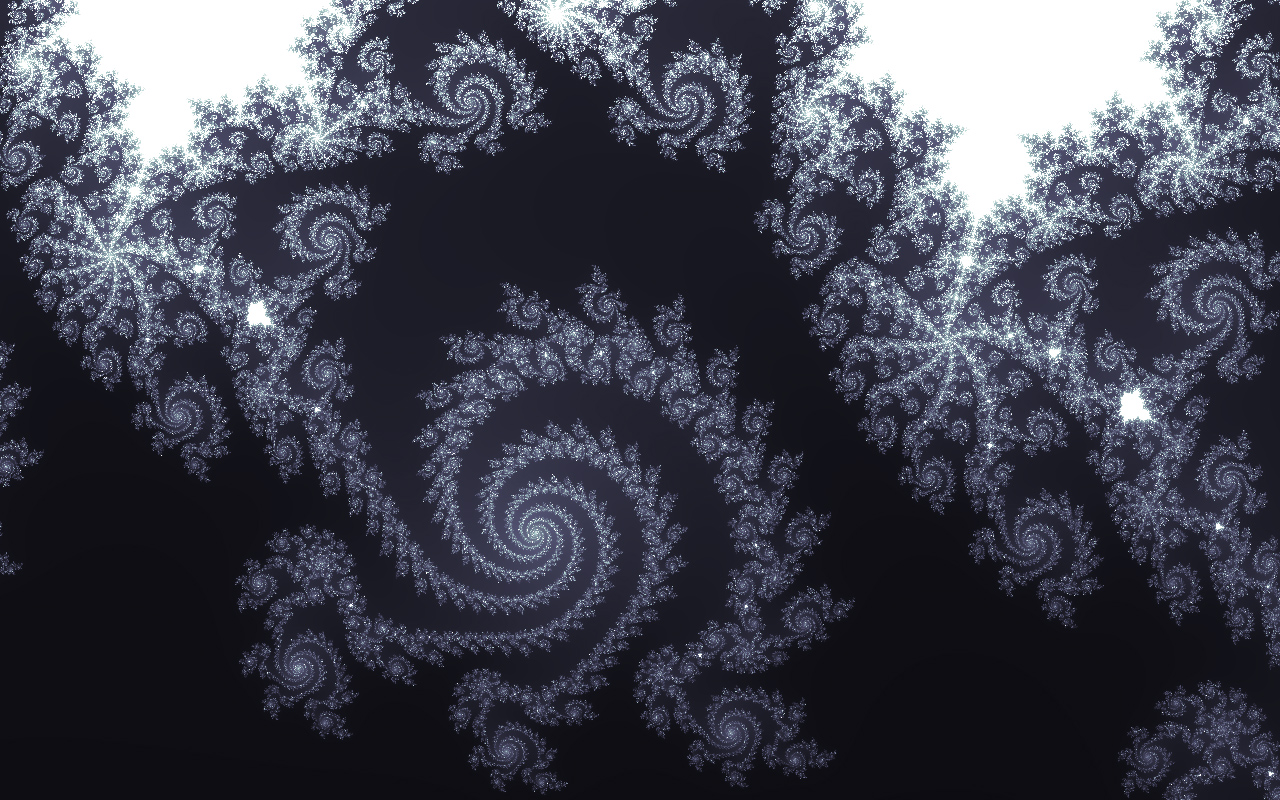
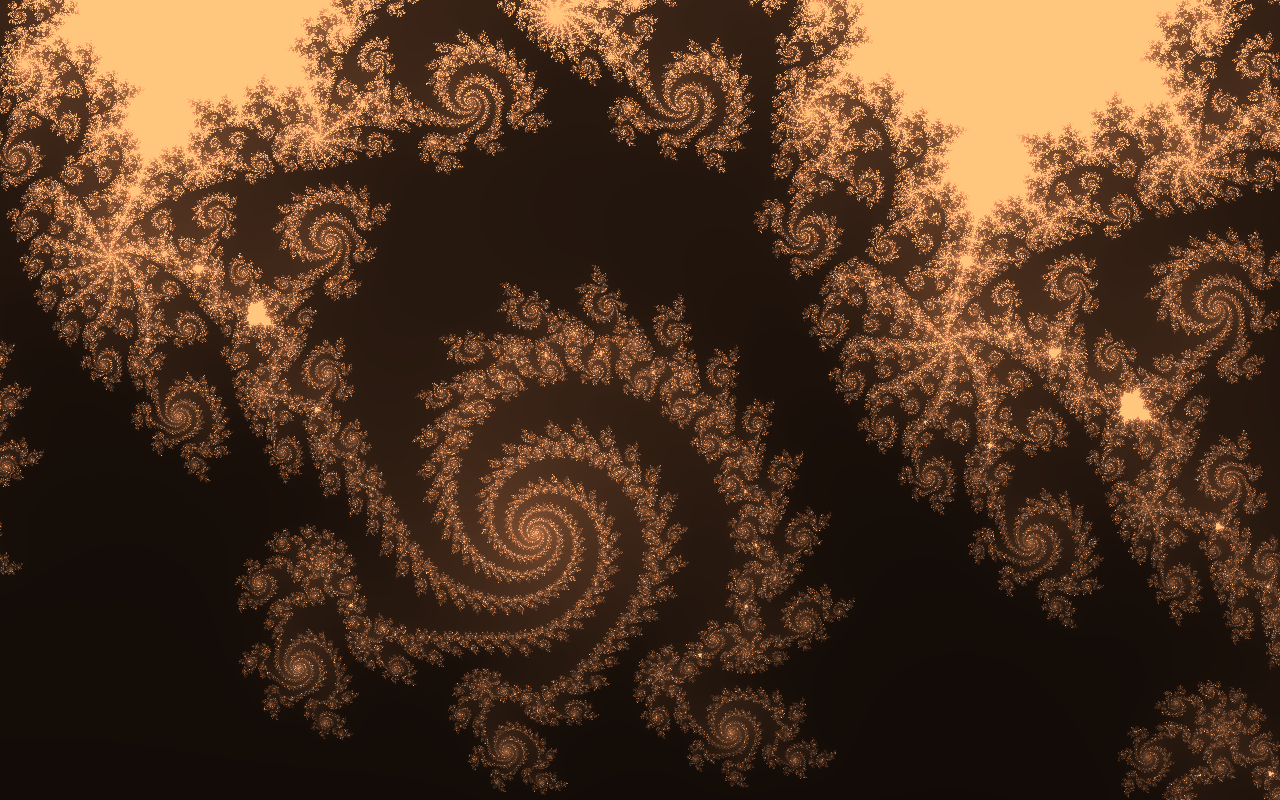
Improved opacity of mobile menu and updated portfolio cover picture.

diff --git a/assets/css/i.css b/assets/css/i.css
@@ -1,1 +1,1 @@
-@charset "UTF-8";html,body,div,span,applet,object,iframe,h1,h2,h3,h4,h5,h6,p,blockquote,pre,a,abbr,acronym,address,big,cite,code,del,dfn,em,img,ins,kbd,q,s,samp,small,strike,strong,sub,sup,tt,var,b,u,i,center,dl,dt,dd,ol,ul,li,fieldset,form,label,legend,table,caption,tbody,tfoot,thead,tr,th,td,article,aside,canvas,details,figcaption,figure,footer,header,hgroup,menu,nav,section,summary,time,mark,audio,video{border:0;font:inherit;margin:0;outline:0;padding:0;vertical-align:baseline}article,aside,details,figcaption,figure,footer,header,hgroup,menu,nav,section{display:block}body{line-height:1}ul{list-style:none}blockquote,q{quotes:none}blockquote:before,blockquote:after,q:before,q:after{content:'';content:none}:focus{outline:none}ins{text-decoration:none}del{text-decoration:line-through}table{border-collapse:collapse;border-spacing:0}a{text-decoration:none}*{box-sizing:border-box}body{width:100%}body:before,body:after{content:"";display:table}body:after{clear:both}body{zoom:1}body{font-family:"Calendas Plus","Crimson Text","Hoefler Text","Georgia",serif;color:#3b3b3b;-webkit-font-smoothing:antialiased;-moz-osx-font-smoothing:grayscale;text-size-adjust:100%;background:#fff;min-height:100%;height:100%;overflow-x:hidden}h1,h2,h3,h4,h5{font-family:"Calendas Plus","Crimson Text","Hoefler Text","Georgia",serif}p{margin-bottom:33px}sup{font-size:0.6em;vertical-align:super}a,a:visited,a:active{color:#7facc4;-moz-transition:all 0.25s ease-in-out;-o-transition:all 0.25s ease-in-out;-webkit-transition:all 0.25s ease-in-out;-ms-transition:all 0.25s ease-in-out;transition:all 0.25s ease-in-out}a:hover{color:#00a9ff;-moz-transition:all 0.25s ease-in-out;-o-transition:all 0.25s ease-in-out;-webkit-transition:all 0.25s ease-in-out;-ms-transition:all 0.25s ease-in-out;transition:all 0.25s ease-in-out}em{padding:1px 2px;border-radius:2px;background:#ffe8c0}abbr{border-bottom:1px dashed #999;cursor:help}strong{font-weight:bold}small{font-size:18px}.hilite{display:inline-block;padding:0 0.3em;-moz-border-radius:4px;-webkit-border-radius:4px;border-radius:4px;background:#fffbd7}blockquote{margin-left:-25px;border-left:3px solid #7facc4}blockquote p{margin-left:22px;font-style:italic;color:#3c3c3c}blockquote.pullquote{border:0}blockquote.pullquote,blockquote.pullquote p{margin:0;line-height:1.3em;text-align:center;margin-bottom:33px}code{color:#222;font-family:"Monaco", "Courier New", "Courier";font-size:.75em;font-weight:bold}.highlight{border:3px solid #dfdfdf;border-radius:3px;padding:12px;margin-bottom:33px;overflow-x:auto}.highlight code{font-family:"Monaco", "Courier New", "Courier";font-size:1em;font-weight:inherit}.highlight code .lineno{margin-right:16.5px;color:#d9d9d9;line-height:1.2em}hr{display:block;margin:0 auto;width:100%;height:4px;background:#d9d9d9;border:none;margin-bottom:33px;border-radius:2px}input{background:none;border:none;outline:none}.archive input{background:none;outline:none;width:100%;font-family:"Calendas Plus","Crimson Text","Hoefler Text","Georgia",serif}.archive input:focus{background:white;color:#3b3b3b}.icons{font-family:"Icons";font-size:14px;line-height:20px}.bb{border-bottom:2px solid #7facc4}.pad-top{padding-top:66px}#bump{min-height:100%;height:auto;margin:0 auto-320px}.wrap{max-width:960px;display:inline;float:left;width:97%;margin:0 1.5%;float:none;margin:0 auto}.wrap:before,.wrap:after{content:"";display:table}.wrap:after{clear:both}.wrap{zoom:1}.post{display:inline;float:left;width:77%;margin:0 1.5%;max-width:680px;display:block;margin:0 auto;float:none}header.site-header{padding:20px 0;position:absolute;width:100%;z-index:5000;background-color:rgba(0,0,0,0.7);background:-webkit-gradient(linear, left top, left bottom, from(rgba(0,0,0,0.7)), to(rgba(0,0,0,0)));background:-webkit-linear-gradient(top, rgba(0,0,0,0.7), rgba(0,0,0,0));background:-moz-linear-gradient(top, rgba(0,0,0,0.7), rgba(0,0,0,0));background:-ms-linear-gradient(top, rgba(0,0,0,0.7), rgba(0,0,0,0));background:-o-linear-gradient(top, rgba(0,0,0,0.7), rgba(0,0,0,0));background:linear-gradient(top, rgba(0,0,0,0.7), rgba(0,0,0,0));filter:progid:DXImageTransform.Microsoft.gradient(startColorStr=$startColor, EndColorStr=$endColor)}header.site-header.no-cover{background:none}header.site-header .wrap{max-width:90vw}#logo{position:fixed;left:10px;top:10px;display:none;opacity:0;z-index:2}#logo img{width:25px;height:25px}#bump .no-cover a{color:#3b3b3b;-moz-transition:all 0.2s ease-in-out;-o-transition:all 0.2s ease-in-out;-webkit-transition:all 0.2s ease-in-out;-ms-transition:all 0.2s ease-in-out;transition:all 0.2s ease-in-out}#bump .no-cover a:hover{color:#7facc4;-moz-transition:all 0.2s ease-in-out;-o-transition:all 0.2s ease-in-out;-webkit-transition:all 0.2s ease-in-out;-ms-transition:all 0.2s ease-in-out;transition:all 0.2s ease-in-out}#bump .no-cover .menu .icons{color:#3b3b3b}#bump .no-cover nav ul li a{color:#3b3b3b}#bump .no-cover nav ul li a:active{color:#7facc4}#bump .no-cover nav ul li a:hover{text-shadow:none;color:#7facc4}header.site-header a.menu{display:none}header.site-header hgroup h1,header.site-header nav ul{font-family:"Source Sans Pro","Open Sans","Helvetica Neue","Arial",sans-serif}header.site-header hgroup{float:left;padding-left:5vw}header.site-header hgroup h1{font-weight:700;font-size:18px;line-height:100%;color:#00a9ff;letter-spacing:2px;text-transform:uppercase}header.site-header hgroup a{color:#fff;-moz-transition:all 0.2s ease;-o-transition:all 0.2s ease;-webkit-transition:all 0.2s ease;-ms-transition:all 0.2s ease;transition:all 0.2s ease}header.site-header hgroup a:hover{text-shadow:0 0 3px rgba(255,255,255,0.6);-moz-transition:all 0.2s ease;-o-transition:all 0.2s ease;-webkit-transition:all 0.2s ease;-ms-transition:all 0.2s ease;transition:all 0.2s ease}header.site-header nav{float:right;display:block;padding-right:5vw}header.site-header nav:before,header.site-header nav:after{content:"";display:table}header.site-header nav:after{clear:both}header.site-header nav{zoom:1}header.site-header nav ul li{font-size:16px;text-transform:uppercase;display:inline;font-weight:bold;top:2px;position:relative;margin-left:20px}header.site-header nav ul li a{color:white;-moz-transition:all 0.2s ease;-o-transition:all 0.2s ease;-webkit-transition:all 0.2s ease;-ms-transition:all 0.2s ease;transition:all 0.2s ease}header.site-header nav ul li a:hover{text-shadow:0 0 10px rgba(255,255,255,0.6);-moz-transition:all 0.2s ease;-o-transition:all 0.2s ease;-webkit-transition:all 0.2s ease;-ms-transition:all 0.2s ease;transition:all 0.2s ease}.article{position:relative;margin-bottom:33px}.article.big .feature-wrapper{height:100vh;max-height:100%}.article.big .feature-wrapper .featured-image{background-color:#000;opacity:0.5}.article.big article{margin-top:100px}.article.big article header{margin:0;position:absolute;left:0;width:100%;top:45vh}.article.big article header *{text-shadow:0px 0px 5px #000}.article.big article header h1,.article.big article header .intro{font-style:normal}.article.big article header h1{font-family:Bitter;padding:0;margin:0;font-weight:700;color:#fff}.article.big article header .intro{font-family:'Open Sans Condensed';padding:0;margin:0;text-align:center;color:rgba(255,255,255,0.85)}.article .feature-wrapper{height:40vw;overflow:hidden;background:#000;min-height:250px;height:40vw;max-height:50vh;width:100%}.article .featured-image{vertical-align:middle;background-position:center center;background-size:cover;-webkit-background-size:cover;-moz-background-size:cover;-o-background-size:cover;opacity:0.9;width:100%;height:100%}.article header{margin:66px 0 33px 0}.article header hgroup{color:#3b3b3b;position:relative;text-align:center;width:auto;margin-top:0;margin:0 20px}.article header hgroup .date{font-family:"Source Sans Pro","Open Sans","Helvetica Neue","Arial",sans-serif;font-size:18px;font-weight:bold;color:#d9d9d9;text-transform:uppercase;margin-top:22px}.article header .intro{text-align:left}.archive{display:inline;float:left;width:97%;margin:0 1.5%;display:block;margin:0 auto;float:none;min-height:500px}.archive-wrap{display:inline;float:left;width:97%;margin:0 1.5%;max-width:800px;display:block;margin:0 auto;float:none;padding-top:140px}.archive-wrap .post-list{list-style-type:none;list-style:none;display:inline;float:left;width:67%;margin:0 1.5%;margin-left:21.5%;display:block;float:none}.archive-wrap .post-list lh h2{margin-bottom:49.5px}.archive-wrap .post-list li{display:block;float:none;font-size:32px;margin-bottom:66px;position:relative}.archive-wrap .post-list li a{position:relative}.archive-wrap .post-list li a:hover{-moz-transition:all 1s ease-in-out;-o-transition:all 1s ease-in-out;-webkit-transition:all 1s ease-in-out;-ms-transition:all 1s ease-in-out;transition:all 1s ease-in-out}.archive-wrap .post-list li a:hover:before{content:'...';color:#d9d9d9;font-family:"Source Sans Pro","Open Sans","Helvetica Neue","Arial",sans-serif;position:absolute;margin-left:-70px;font-size:40px;left:0;top:-20px;text-align:center;-moz-transition:all 1s ease-in-out;-o-transition:all 1s ease-in-out;-webkit-transition:all 1s ease-in-out;-ms-transition:all 1s ease-in-out;transition:all 1s ease-in-out}.archive-wrap .post-list li a:before{content:'“';color:#d9d9d9;position:absolute;margin-left:-70px;font-size:60px;z-index:10;top:-6px;left:0;text-align:center;-moz-transition:all 1s ease-in-out;-o-transition:all 1s ease-in-out;-webkit-transition:all 1s ease-in-out;-ms-transition:all 1s ease-in-out;transition:all 1s ease-in-out}.archive-wrap .post-list li h1{font-size:32px;font-style:italic}.archive-wrap .post-list .summary{font-size:18px;line-height:1.45em}.archive-wrap .post-list .date{margin-bottom:3px}.archive-wrap .post-list .date time{position:relative;top:-3px;font-size:18px;font-weight:bold;font-family:"Source Sans Pro","Open Sans","Helvetica Neue","Arial",sans-serif;font-style:normal;color:#d9d9d9;text-transform:uppercase;vertical-align:middle}.post .deets{position:relative;top:45px;z-index:5}.post .deets .date{font-size:18px;position:relative;top:10px;left:6px;color:#999;margin-bottom:16.5px}.post h1{font-style:italic}.post h1,.post h2,.post h3,.post h4,.post h5{padding-top:16.5px;margin-bottom:16.5px;line-height:1.25em}.post figure{margin:33px 0}.post figure img{margin-bottom:16.5px}.post figure figcaption{font-size:18px;font-family:"Source Sans Pro","Open Sans","Helvetica Neue","Arial",sans-serif;font-weight:bold;text-transform:uppercase;color:#bbb;text-align:center}.post img{width:100%;height:auto;display:block;margin:33px auto;-moz-border-radius:4px;-webkit-border-radius:4px;border-radius:4px}.post .device-mockup .device .screen img{margin:0;border-radius:0}.post ul{display:block;margin-bottom:33px;list-style:disc;list-style-type:disc}.post ul lh h1,.post ul lh h2,.post ul lh h3,.post ul lh h4,.post ul lh h5{border-bottom:2px solid #d9d9d9}.post ul li{list-style:disc;list-style-type:disc;margin-left:66px;padding-left:11px}.post ul li:last-child{margin-bottom:0}.post ol{display:block;margin-bottom:33px}.post ol lh h1,.post ol lh h2,.post ol lh h3,.post ol lh h4,.post ol lh h5{border-bottom:2px solid #d9d9d9}.post ol li{margin-left:66px;padding-left:11px;margin-bottom:11px;line-height:33px;font-size:22px}.post ol li:last-child{margin-bottom:0}.post .share{text-align:center;display:block;margin:0 auto;width:76px;font-size:18px;font-family:"Source Sans Pro","Open Sans","Helvetica Neue","Arial",sans-serif;text-transform:uppercase;font-weight:bold;letter-spacing:1px;padding:4px 6px 4px 6px;color:#d9d9d9;border:2px solid rgba(217,217,217,0.7);-moz-border-radius:4px;-webkit-border-radius:4px;border-radius:4px}.post .share:hover{color:#7facc4;border-color:rgba(127,172,196,0.7);-moz-transition:all 0.2s ease;-o-transition:all 0.2s ease;-webkit-transition:all 0.2s ease;-ms-transition:all 0.2s ease;transition:all 0.2s ease}.push{height:80px}footer{width:100%;background:#3b3b3b;height:320px;font-size:22px;color:#fff;position:relative}footer section{display:inline;float:left;width:97%;margin:0 1.5%;display:block;width:103%;margin:0 -1.5%;display:block;margin:0 auto}footer section:before,footer section:after{content:"";display:table}footer section:after{clear:both}footer section{zoom:1}footer small{font-size:12px;text-align:center;display:block;width:100%;position:absolute;bottom:8px;font-family:"Source Sans Pro","Open Sans","Helvetica Neue","Arial",sans-serif;text-transform:uppercase;color:rgba(255,255,255,0.1)}footer small a{color:rgba(255,255,255,0.3)}footer .list-title{margin-bottom:16.5px;border-bottom:2px solid #7facc4;font-style:italic;font-size:24px}footer .prev-posts{display:inline;float:left;width:57.0%;margin:0 1.5%;max-width:600px;min-height:250px;padding-left:5vw}footer .prev-posts p{padding-top:66px}footer .prev-posts li{display:block;width:102.5%;margin:0 -1.25%;margin-top:16.5px}footer .prev-posts li:before,footer .prev-posts li:after{content:"";display:table}footer .prev-posts li:after{clear:both}footer .prev-posts li{zoom:1}footer .prev-posts li .recent-title{display:inline;float:left;width:64.16667%;margin:0 1.25%;font-style:italic}footer .prev-posts li .recent-title a:hover{color:#fff}footer .prev-posts li span.date{float:none;color:rgba(217,217,217,0.6);display:inline;float:left;width:30.83333%;margin:0 1.25%;position:relative;font-size:18px;font-family:"Source Sans Pro","Open Sans","Helvetica Neue","Arial",sans-serif;text-transform:uppercase;text-align:right}footer .social{position:absolute;top:109px;display:inline;float:left;width:22.5%;margin:0 1.25%;right:5vw;font-style:italic}footer .social a{color:#999}footer .social a:hover{color:#fff}footer .social ul li{margin-bottom:16.5px}footer .social ul li:last-child{margin-bottom:0}footer .social ul li span.icon{float:left;margin-right:5px}.disqus{margin-top:99px}@media only screen and (max-width: 800px){.article.big article header h1{font-size:48px}.article.big article header p.intro{font-size:24px}footer{font-size:18px}footer .prev-posts li span.date{font-size:12px}footer .social{right:10vw}}@media only screen and (max-width: 640px){.push{height:0}.article.big .feature-wrapper{height:65vh}.article.big article{margin-top:50px}.article.big article header{top:25vh}.article.big article header h1{font-size:24px}.article.big article header .date{font-size:12px;margin:3px 0}.article.big article header p.intro{font-size:18px;color:rgba(255,255,255,0.85)}}@media only screen and (max-width: 480px){.article.big article header{top:30vh}.article.big article header .date{margin:15px 0}.article.big article header p.intro{font-size:18px;color:rgba(255,255,255,0.85)}footer .social{display:none}footer aside{width:90%;margin:0 auto}footer .prev-posts{display:inline;float:left;width:87%;margin:0 1.5%;padding-left:0;float:none;margin:0 auto;display:block}footer .prev-posts li{margin-top:16.5px}}@media only screen and (max-width: 680px){header.site-header nav{background-color:rgba(0,0,0,0);background:-webkit-gradient(linear, left top, left bottom, from(rgba(0,0,0,0)), to(rgba(0,0,0,0.8)));background:-webkit-linear-gradient(top, rgba(0,0,0,0), rgba(0,0,0,0.8));background:-moz-linear-gradient(top, rgba(0,0,0,0), rgba(0,0,0,0.8));background:-ms-linear-gradient(top, rgba(0,0,0,0), rgba(0,0,0,0.8));background:-o-linear-gradient(top, rgba(0,0,0,0), rgba(0,0,0,0.8));background:linear-gradient(top, rgba(0,0,0,0), rgba(0,0,0,0.8));filter:progid:DXImageTransform.Microsoft.gradient(startColorStr=$startColor, EndColorStr=$endColor)}#bump .no-cover nav ul{padding:0;margin-top:40px;background:#3b3b3b}#bump .no-cover nav ul li a{color:#fff}#bump .no-cover nav ul li a:active{background-color:#7facc4}#bump .no-cover nav ul li a:hover{text-shadow:none;color:#fff;background-color:#7facc4}header.site-header{min-height:59px;padding-top:20px}header.site-header hgroup h1{margin-bottom:0;font-size:22px}header.site-header hgroup{position:absolute;left:7%;float:none;padding-left:0}header.site-header a.menu{position:absolute;right:7%;display:block;float:right;width:16px;height:16px;color:white}header.site-header a.menu .icons{font-size:32px}header.site-header a.menu img{width:24px;height:auto}header.site-header nav{display:none;float:none;width:100%;padding-right:0}header.site-header nav:before{display:table;clear:both;content:''}header.site-header nav ul{padding:20px 0 10px 0;margin-top:15px}header.site-header nav ul li{display:block;margin-left:0;top:0px;font-size:18px}header.site-header nav ul li a{display:block;text-align:right;font-weight:bold;padding:15px 0px;padding-right:7%;position:relative;width:100%;color:#fff}header.site-header nav ul li a:active{background-color:#7facc4;color:white}header.site-header nav ul li a:hover{text-shadow:none}}@media only screen and (max-width: 480px){.post{display:inline;float:left;width:87%;margin:0 1.5%;max-width:420px;display:block;margin:0 auto;float:none}blockquote{margin-left:-15px}blockquote p{margin-left:13px}.highlight code{font-size:0.8em}footer{font-size:18px}small{font-size:12px}}p{font-size:22px;line-height:33px}.intro{font-size:32px;line-height:1.4em}.post ul li{font-size:22px;line-height:33px;margin-bottom:11px}h1,.h1{font-size:64px}h2,.h2{font-size:48px}h3,.h3{font-size:32px}h4,.h4{font-size:24px}h5,.h5{font-size:18px}h6,.h6{font-size:12px}.meta{font-size:12px}blockquote.pullquote,blockquote.pullquote p{font-size:48px}.archive input{font-size:48px}@media only screen and (max-width: 480px){p{font-size:18px;line-height:24px}.intro{font-size:24px;line-height:1.4em}.post ol li,.post ul li{font-size:18px;line-height:24px;margin-bottom:12px;margin-left:33px}h1,.h1{font-size:48px}h2,.h2{font-size:32px}h3,.h3{font-size:24px}h4,.h4{font-size:18px}h5,.h5{font-size:12px}h6,.h6{font-size:12px}.meta{font-size:12px}blockquote.pullquote,blockquote.pullquote p{font-size:24px}.archive input{font-size:32px}}.highlight{background:#202020;color:#d0d0d0}.highlight code{color:inherit}.highlight .hll{background-color:#404040}.highlight .c{color:#999999;font-style:italic}.highlight .err{color:#a61717;background-color:#e3d2d2}.highlight .g{color:#d0d0d0}.highlight .k{color:#6ab825;font-weight:bold}.highlight .l{color:#d0d0d0}.highlight .n{color:#d0d0d0}.highlight .o{color:#d0d0d0}.highlight .x{color:#d0d0d0}.highlight .p{color:#d0d0d0}.highlight .cm{color:#999999;font-style:italic}.highlight .cp{color:#cd2828;font-weight:bold}.highlight .c1{color:#999999;font-style:italic}.highlight .cs{color:#e50808;font-weight:bold;background-color:#520000}.highlight .gd{color:#d22323}.highlight .ge{color:#d0d0d0;font-style:italic}.highlight .gr{color:#d22323}.highlight .gh{color:#ffffff;font-weight:bold}.highlight .gi{color:#589819}.highlight .go{color:#ccc}.highlight .gp{color:#aaa}.highlight .gs{color:#d0d0d0;font-weight:bold}.highlight .gu{color:#ffffff;text-decoration:underline}.highlight .gt{color:#d22323}.highlight .kc{color:#6ab825;font-weight:bold}.highlight .kd{color:#6ab825;font-weight:bold}.highlight .kn{color:#6ab825;font-weight:bold}.highlight .kp{color:#6ab825}.highlight .kr{color:#6ab825;font-weight:bold}.highlight .kt{color:#6ab825;font-weight:bold}.highlight .ld{color:#d0d0d0}.highlight .m{color:#3677a9}.highlight .s{color:#ed9d13}.highlight .na{color:#bbb}.highlight .nb{color:#24909d}.highlight .nc{color:#447fcf;text-decoration:underline}.highlight .no{color:#40ffff}.highlight .nd{color:orange}.highlight .ni{color:#d0d0d0}.highlight .ne{color:#bbb}.highlight .nf{color:#447fcf}.highlight .nl{color:#d0d0d0}.highlight .nn{color:#447fcf;text-decoration:underline}.highlight .nx{color:#d0d0d0}.highlight .py{color:#d0d0d0}.highlight .nt{color:#6ab825;font-weight:bold}.highlight .nv{color:#40ffff}.highlight .ow{color:#6ab825;font-weight:bold}.highlight .w{color:#666}.highlight .mf{color:#3677a9}.highlight .mh{color:#3677a9}.highlight .mi{color:#3677a9}.highlight .mo{color:#3677a9}.highlight .sb{color:#ed9d13}.highlight .sc{color:#ed9d13}.highlight .sd{color:#ed9d13}.highlight .s2{color:#ed9d13}.highlight .se{color:#ed9d13}.highlight .sh{color:#ed9d13}.highlight .si{color:#ed9d13}.highlight .sx{color:orange}.highlight .sr{color:#ed9d13}.highlight .s1{color:#ed9d13}.highlight .ss{color:#ed9d13}.highlight .bp{color:#24909d}.highlight .vc{color:#40ffff}.highlight .vg{color:#40ffff}.highlight .vi{color:#40ffff}.highlight .il{color:#3677a9}.highlight .hll{background-color:#49483e}.highlight{background:#272822;color:#f8f8f2}.highlight .c{color:#75715e}.highlight .err{color:#960050;background-color:#1e0010}.highlight .k{color:#66d9ef}.highlight .l{color:#ae81ff}.highlight .n{color:#f8f8f2}.highlight .o{color:#f92672}.highlight .p{color:#f8f8f2}.highlight .cm{color:#75715e}.highlight .cp{color:#75715e}.highlight .c1{color:#75715e}.highlight .cs{color:#75715e}.highlight .ge{font-style:italic}.highlight .gs{font-weight:bold}.highlight .kc{color:#66d9ef}.highlight .kd{color:#66d9ef}.highlight .kn{color:#f92672}.highlight .kp{color:#66d9ef}.highlight .kr{color:#66d9ef}.highlight .kt{color:#66d9ef}.highlight .ld{color:#e6db74}.highlight .m{color:#ae81ff}.highlight .s{color:#e6db74}.highlight .na{color:#a6e22e}.highlight .nb{color:#f8f8f2}.highlight .nc{color:#a6e22e}.highlight .no{color:#66d9ef}.highlight .nd{color:#a6e22e}.highlight .ni{color:#f8f8f2}.highlight .ne{color:#a6e22e}.highlight .nf{color:#a6e22e}.highlight .nl{color:#f8f8f2}.highlight .nn{color:#f8f8f2}.highlight .nx{color:#a6e22e}.highlight .py{color:#f8f8f2}.highlight .nt{color:#f92672}.highlight .nv{color:#f8f8f2}.highlight .ow{color:#f92672}.highlight .w{color:#f8f8f2}.highlight .mf{color:#ae81ff}.highlight .mh{color:#ae81ff}.highlight .mi{color:#ae81ff}.highlight .mo{color:#ae81ff}.highlight .sb{color:#e6db74}.highlight .sc{color:#e6db74}.highlight .sd{color:#e6db74}.highlight .s2{color:#e6db74}.highlight .se{color:#ae81ff}.highlight .sh{color:#e6db74}.highlight .si{color:#e6db74}.highlight .sx{color:#e6db74}.highlight .sr{color:#e6db74}.highlight .s1{color:#e6db74}.highlight .ss{color:#e6db74}.highlight .bp{color:#f8f8f2}.highlight .vc{color:#f8f8f2}.highlight .vg{color:#f8f8f2}.highlight .vi{color:#f8f8f2}.highlight .il{color:#ae81ff}
+@charset "UTF-8";html,body,div,span,applet,object,iframe,h1,h2,h3,h4,h5,h6,p,blockquote,pre,a,abbr,acronym,address,big,cite,code,del,dfn,em,img,ins,kbd,q,s,samp,small,strike,strong,sub,sup,tt,var,b,u,i,center,dl,dt,dd,ol,ul,li,fieldset,form,label,legend,table,caption,tbody,tfoot,thead,tr,th,td,article,aside,canvas,details,figcaption,figure,footer,header,hgroup,menu,nav,section,summary,time,mark,audio,video{border:0;font:inherit;margin:0;outline:0;padding:0;vertical-align:baseline}article,aside,details,figcaption,figure,footer,header,hgroup,menu,nav,section{display:block}body{line-height:1}ul{list-style:none}blockquote,q{quotes:none}blockquote:before,blockquote:after,q:before,q:after{content:'';content:none}:focus{outline:none}ins{text-decoration:none}del{text-decoration:line-through}table{border-collapse:collapse;border-spacing:0}a{text-decoration:none}*{box-sizing:border-box}body{width:100%}body:before,body:after{content:"";display:table}body:after{clear:both}body{zoom:1}body{font-family:"Calendas Plus","Crimson Text","Hoefler Text","Georgia",serif;color:#3b3b3b;-webkit-font-smoothing:antialiased;-moz-osx-font-smoothing:grayscale;text-size-adjust:100%;background:#fff;min-height:100%;height:100%;overflow-x:hidden}h1,h2,h3,h4,h5{font-family:"Calendas Plus","Crimson Text","Hoefler Text","Georgia",serif}p{margin-bottom:33px}sup{font-size:0.6em;vertical-align:super}a,a:visited,a:active{color:#7facc4;-moz-transition:all 0.25s ease-in-out;-o-transition:all 0.25s ease-in-out;-webkit-transition:all 0.25s ease-in-out;-ms-transition:all 0.25s ease-in-out;transition:all 0.25s ease-in-out}a:hover{color:#00a9ff;-moz-transition:all 0.25s ease-in-out;-o-transition:all 0.25s ease-in-out;-webkit-transition:all 0.25s ease-in-out;-ms-transition:all 0.25s ease-in-out;transition:all 0.25s ease-in-out}em{padding:1px 2px;border-radius:2px;background:#ffe8c0}abbr{border-bottom:1px dashed #999;cursor:help}strong{font-weight:bold}small{font-size:18px}.hilite{display:inline-block;padding:0 0.3em;-moz-border-radius:4px;-webkit-border-radius:4px;border-radius:4px;background:#fffbd7}blockquote{margin-left:-25px;border-left:3px solid #7facc4}blockquote p{margin-left:22px;font-style:italic;color:#3c3c3c}blockquote.pullquote{border:0}blockquote.pullquote,blockquote.pullquote p{margin:0;line-height:1.3em;text-align:center;margin-bottom:33px}code{color:#222;font-family:"Monaco", "Courier New", "Courier";font-size:.75em;font-weight:bold}.highlight{border:3px solid #dfdfdf;border-radius:3px;padding:12px;margin-bottom:33px;overflow-x:auto}.highlight code{font-family:"Monaco", "Courier New", "Courier";font-size:1em;font-weight:inherit}.highlight code .lineno{margin-right:16.5px;color:#d9d9d9;line-height:1.2em}hr{display:block;margin:0 auto;width:100%;height:4px;background:#d9d9d9;border:none;margin-bottom:33px;border-radius:2px}input{background:none;border:none;outline:none}.archive input{background:none;outline:none;width:100%;font-family:"Calendas Plus","Crimson Text","Hoefler Text","Georgia",serif}.archive input:focus{background:white;color:#3b3b3b}.icons{font-family:"Icons";font-size:14px;line-height:20px}.bb{border-bottom:2px solid #7facc4}.pad-top{padding-top:66px}#bump{min-height:100%;height:auto;margin:0 auto-320px}.wrap{max-width:960px;display:inline;float:left;width:97%;margin:0 1.5%;float:none;margin:0 auto}.wrap:before,.wrap:after{content:"";display:table}.wrap:after{clear:both}.wrap{zoom:1}.post{display:inline;float:left;width:77%;margin:0 1.5%;max-width:680px;display:block;margin:0 auto;float:none}header.site-header{padding:20px 0;position:absolute;width:100%;z-index:5000;background-color:rgba(0,0,0,0.5);background:-webkit-gradient(linear, left top, left bottom, from(rgba(0,0,0,0.5)), to(rgba(0,0,0,0)));background:-webkit-linear-gradient(top, rgba(0,0,0,0.5), rgba(0,0,0,0));background:-moz-linear-gradient(top, rgba(0,0,0,0.5), rgba(0,0,0,0));background:-ms-linear-gradient(top, rgba(0,0,0,0.5), rgba(0,0,0,0));background:-o-linear-gradient(top, rgba(0,0,0,0.5), rgba(0,0,0,0));background:linear-gradient(top, rgba(0,0,0,0.5), rgba(0,0,0,0));filter:progid:DXImageTransform.Microsoft.gradient(startColorStr=$startColor, EndColorStr=$endColor)}header.site-header.no-cover{background:none}header.site-header .wrap{max-width:90vw}#logo{position:fixed;left:10px;top:10px;display:none;opacity:0;z-index:2}#logo img{width:25px;height:25px}#bump .no-cover a{color:#3b3b3b;-moz-transition:all 0.2s ease-in-out;-o-transition:all 0.2s ease-in-out;-webkit-transition:all 0.2s ease-in-out;-ms-transition:all 0.2s ease-in-out;transition:all 0.2s ease-in-out}#bump .no-cover a:hover{color:#7facc4;-moz-transition:all 0.2s ease-in-out;-o-transition:all 0.2s ease-in-out;-webkit-transition:all 0.2s ease-in-out;-ms-transition:all 0.2s ease-in-out;transition:all 0.2s ease-in-out}#bump .no-cover .menu .icons{color:#3b3b3b}#bump .no-cover nav ul li a{color:#3b3b3b}#bump .no-cover nav ul li a:active{color:#7facc4}#bump .no-cover nav ul li a:hover{text-shadow:none;color:#7facc4}header.site-header a.menu{display:none}header.site-header hgroup h1,header.site-header nav ul{font-family:"Source Sans Pro","Open Sans","Helvetica Neue","Arial",sans-serif}header.site-header hgroup{float:left;padding-left:5vw}header.site-header hgroup h1{font-weight:700;font-size:18px;line-height:100%;color:#00a9ff;letter-spacing:2px;text-transform:uppercase}header.site-header hgroup a{color:#fff;-moz-transition:all 0.2s ease;-o-transition:all 0.2s ease;-webkit-transition:all 0.2s ease;-ms-transition:all 0.2s ease;transition:all 0.2s ease}header.site-header hgroup a:hover{text-shadow:0 0 3px rgba(255,255,255,0.6);-moz-transition:all 0.2s ease;-o-transition:all 0.2s ease;-webkit-transition:all 0.2s ease;-ms-transition:all 0.2s ease;transition:all 0.2s ease}header.site-header nav{float:right;display:block;padding-right:5vw}header.site-header nav:before,header.site-header nav:after{content:"";display:table}header.site-header nav:after{clear:both}header.site-header nav{zoom:1}header.site-header nav ul li{font-size:16px;text-transform:uppercase;display:inline;font-weight:bold;top:2px;position:relative;margin-left:20px}header.site-header nav ul li a{color:white;-moz-transition:all 0.2s ease;-o-transition:all 0.2s ease;-webkit-transition:all 0.2s ease;-ms-transition:all 0.2s ease;transition:all 0.2s ease}header.site-header nav ul li a:hover{text-shadow:0 0 10px rgba(255,255,255,0.6);-moz-transition:all 0.2s ease;-o-transition:all 0.2s ease;-webkit-transition:all 0.2s ease;-ms-transition:all 0.2s ease;transition:all 0.2s ease}.article{position:relative;margin-bottom:33px}.article.big .feature-wrapper{height:100vh;max-height:100%}.article.big .feature-wrapper .featured-image{background-color:#000;opacity:0.5}.article.big article{margin-top:100px}.article.big article header{margin:0;position:absolute;left:0;width:100%;top:45vh}.article.big article header *{text-shadow:0px 0px 5px #000}.article.big article header h1,.article.big article header .intro{font-style:normal}.article.big article header h1{font-family:Bitter;padding:0;margin:0;font-weight:700;color:#fff}.article.big article header .intro{font-family:'Open Sans Condensed';padding:0;margin:0;text-align:center;color:rgba(255,255,255,0.85)}.article .feature-wrapper{height:40vw;overflow:hidden;background:#000;min-height:250px;height:40vw;max-height:50vh;width:100%}.article .featured-image{vertical-align:middle;background-position:center center;background-size:cover;-webkit-background-size:cover;-moz-background-size:cover;-o-background-size:cover;opacity:0.9;width:100%;height:100%}.article header{margin:66px 0 33px 0}.article header hgroup{color:#3b3b3b;position:relative;text-align:center;width:auto;margin-top:0;margin:0 20px}.article header hgroup .date{font-family:"Source Sans Pro","Open Sans","Helvetica Neue","Arial",sans-serif;font-size:18px;font-weight:bold;color:#d9d9d9;text-transform:uppercase;margin-top:22px}.article header .intro{text-align:left}.archive{display:inline;float:left;width:97%;margin:0 1.5%;display:block;margin:0 auto;float:none;min-height:500px}.archive-wrap{display:inline;float:left;width:97%;margin:0 1.5%;max-width:800px;display:block;margin:0 auto;float:none;padding-top:140px}.archive-wrap .post-list{list-style-type:none;list-style:none;display:inline;float:left;width:67%;margin:0 1.5%;margin-left:21.5%;display:block;float:none}.archive-wrap .post-list lh h2{margin-bottom:49.5px}.archive-wrap .post-list li{display:block;float:none;font-size:32px;margin-bottom:66px;position:relative}.archive-wrap .post-list li a{position:relative}.archive-wrap .post-list li a:hover{-moz-transition:all 1s ease-in-out;-o-transition:all 1s ease-in-out;-webkit-transition:all 1s ease-in-out;-ms-transition:all 1s ease-in-out;transition:all 1s ease-in-out}.archive-wrap .post-list li a:hover:before{content:'...';color:#d9d9d9;font-family:"Source Sans Pro","Open Sans","Helvetica Neue","Arial",sans-serif;position:absolute;margin-left:-70px;font-size:40px;left:0;top:-20px;text-align:center;-moz-transition:all 1s ease-in-out;-o-transition:all 1s ease-in-out;-webkit-transition:all 1s ease-in-out;-ms-transition:all 1s ease-in-out;transition:all 1s ease-in-out}.archive-wrap .post-list li a:before{content:'“';color:#d9d9d9;position:absolute;margin-left:-70px;font-size:60px;z-index:10;top:-6px;left:0;text-align:center;-moz-transition:all 1s ease-in-out;-o-transition:all 1s ease-in-out;-webkit-transition:all 1s ease-in-out;-ms-transition:all 1s ease-in-out;transition:all 1s ease-in-out}.archive-wrap .post-list li h1{font-size:32px;font-style:italic}.archive-wrap .post-list .summary{font-size:18px;line-height:1.45em}.archive-wrap .post-list .date{margin-bottom:3px}.archive-wrap .post-list .date time{position:relative;top:-3px;font-size:18px;font-weight:bold;font-family:"Source Sans Pro","Open Sans","Helvetica Neue","Arial",sans-serif;font-style:normal;color:#d9d9d9;text-transform:uppercase;vertical-align:middle}.post .deets{position:relative;top:45px;z-index:5}.post .deets .date{font-size:18px;position:relative;top:10px;left:6px;color:#999;margin-bottom:16.5px}.post h1{font-style:italic}.post h1,.post h2,.post h3,.post h4,.post h5{padding-top:16.5px;margin-bottom:16.5px;line-height:1.25em}.post figure{margin:33px 0}.post figure img{margin-bottom:16.5px}.post figure figcaption{font-size:18px;font-family:"Source Sans Pro","Open Sans","Helvetica Neue","Arial",sans-serif;font-weight:bold;text-transform:uppercase;color:#bbb;text-align:center}.post img{width:100%;height:auto;display:block;margin:33px auto;-moz-border-radius:4px;-webkit-border-radius:4px;border-radius:4px}.post .device-mockup .device .screen img{margin:0;border-radius:0}.post ul{display:block;margin-bottom:33px;list-style:disc;list-style-type:disc}.post ul lh h1,.post ul lh h2,.post ul lh h3,.post ul lh h4,.post ul lh h5{border-bottom:2px solid #d9d9d9}.post ul li{list-style:disc;list-style-type:disc;margin-left:66px;padding-left:11px}.post ul li:last-child{margin-bottom:0}.post ol{display:block;margin-bottom:33px}.post ol lh h1,.post ol lh h2,.post ol lh h3,.post ol lh h4,.post ol lh h5{border-bottom:2px solid #d9d9d9}.post ol li{margin-left:66px;padding-left:11px;margin-bottom:11px;line-height:33px;font-size:22px}.post ol li:last-child{margin-bottom:0}.post .share{text-align:center;display:block;margin:0 auto;width:76px;font-size:18px;font-family:"Source Sans Pro","Open Sans","Helvetica Neue","Arial",sans-serif;text-transform:uppercase;font-weight:bold;letter-spacing:1px;padding:4px 6px 4px 6px;color:#d9d9d9;border:2px solid rgba(217,217,217,0.7);-moz-border-radius:4px;-webkit-border-radius:4px;border-radius:4px}.post .share:hover{color:#7facc4;border-color:rgba(127,172,196,0.7);-moz-transition:all 0.2s ease;-o-transition:all 0.2s ease;-webkit-transition:all 0.2s ease;-ms-transition:all 0.2s ease;transition:all 0.2s ease}.push{height:80px}footer{width:100%;background:#3b3b3b;height:320px;font-size:22px;color:#fff;position:relative}footer section{display:inline;float:left;width:97%;margin:0 1.5%;display:block;width:103%;margin:0 -1.5%;display:block;margin:0 auto}footer section:before,footer section:after{content:"";display:table}footer section:after{clear:both}footer section{zoom:1}footer small{font-size:12px;text-align:center;display:block;width:100%;position:absolute;bottom:8px;font-family:"Source Sans Pro","Open Sans","Helvetica Neue","Arial",sans-serif;text-transform:uppercase;color:rgba(255,255,255,0.1)}footer small a{color:rgba(255,255,255,0.3)}footer .list-title{margin-bottom:16.5px;border-bottom:2px solid #7facc4;font-style:italic;font-size:24px}footer .prev-posts{display:inline;float:left;width:57.0%;margin:0 1.5%;max-width:600px;min-height:250px;padding-left:5vw}footer .prev-posts p{padding-top:66px}footer .prev-posts li{display:block;width:102.5%;margin:0 -1.25%;margin-top:16.5px}footer .prev-posts li:before,footer .prev-posts li:after{content:"";display:table}footer .prev-posts li:after{clear:both}footer .prev-posts li{zoom:1}footer .prev-posts li .recent-title{display:inline;float:left;width:64.16667%;margin:0 1.25%;font-style:italic}footer .prev-posts li .recent-title a:hover{color:#fff}footer .prev-posts li span.date{float:none;color:rgba(217,217,217,0.6);display:inline;float:left;width:30.83333%;margin:0 1.25%;position:relative;font-size:18px;font-family:"Source Sans Pro","Open Sans","Helvetica Neue","Arial",sans-serif;text-transform:uppercase;text-align:right}footer .social{position:absolute;top:109px;display:inline;float:left;width:22.5%;margin:0 1.25%;right:5vw;font-style:italic}footer .social a{color:#999}footer .social a:hover{color:#fff}footer .social ul li{margin-bottom:16.5px}footer .social ul li:last-child{margin-bottom:0}footer .social ul li span.icon{float:left;margin-right:5px}.disqus{margin-top:99px}@media only screen and (max-width: 800px){.article.big article header h1{font-size:48px}.article.big article header p.intro{font-size:24px}footer{font-size:18px}footer .prev-posts li span.date{font-size:12px}footer .social{right:10vw}}@media only screen and (max-width: 640px){.push{height:0}.article.big .feature-wrapper{height:65vh}.article.big article{margin-top:50px}.article.big article header{top:25vh}.article.big article header h1{font-size:24px}.article.big article header .date{font-size:12px;margin:3px 0}.article.big article header p.intro{font-size:18px;color:rgba(255,255,255,0.85)}}@media only screen and (max-width: 480px){.article.big article header{top:30vh}.article.big article header .date{margin:15px 0}.article.big article header p.intro{font-size:18px;color:rgba(255,255,255,0.85)}footer .social{display:none}footer aside{width:90%;margin:0 auto}footer .prev-posts{display:inline;float:left;width:87%;margin:0 1.5%;padding-left:0;float:none;margin:0 auto;display:block}footer .prev-posts li{margin-top:16.5px}}@media only screen and (max-width: 680px){header.site-header nav{background-color:rgba(0,0,0,0);background:-webkit-gradient(linear, left top, left bottom, from(rgba(0,0,0,0)), to(rgba(0,0,0,0.5)));background:-webkit-linear-gradient(top, rgba(0,0,0,0), rgba(0,0,0,0.5));background:-moz-linear-gradient(top, rgba(0,0,0,0), rgba(0,0,0,0.5));background:-ms-linear-gradient(top, rgba(0,0,0,0), rgba(0,0,0,0.5));background:-o-linear-gradient(top, rgba(0,0,0,0), rgba(0,0,0,0.5));background:linear-gradient(top, rgba(0,0,0,0), rgba(0,0,0,0.5));filter:progid:DXImageTransform.Microsoft.gradient(startColorStr=$startColor, EndColorStr=$endColor)}#bump .no-cover nav ul{padding:0;margin-top:40px;background:#3b3b3b}#bump .no-cover nav ul li a{color:#fff}#bump .no-cover nav ul li a:active{background-color:#7facc4}#bump .no-cover nav ul li a:hover{text-shadow:none;color:#fff;background-color:#7facc4}header.site-header{min-height:59px;padding-top:20px}header.site-header hgroup h1{margin-bottom:0;font-size:22px}header.site-header hgroup{position:absolute;left:7%;float:none;padding-left:0}header.site-header a.menu{position:absolute;right:7%;display:block;float:right;width:16px;height:16px;color:white}header.site-header a.menu .icons{font-size:32px}header.site-header a.menu img{width:24px;height:auto}header.site-header nav{display:none;float:none;width:100%;padding-right:0}header.site-header nav:before{display:table;clear:both;content:''}header.site-header nav ul{padding:20px 0 10px 0;margin-top:15px}header.site-header nav ul li{display:block;margin-left:0;top:0px;font-size:18px}header.site-header nav ul li a{display:block;text-align:right;font-weight:bold;padding:15px 0px;padding-right:7%;position:relative;width:100%;color:#fff}header.site-header nav ul li a:active{background-color:#7facc4;color:white}header.site-header nav ul li a:hover{text-shadow:none}}@media only screen and (max-width: 480px){.post{display:inline;float:left;width:87%;margin:0 1.5%;max-width:420px;display:block;margin:0 auto;float:none}blockquote{margin-left:-15px}blockquote p{margin-left:13px}.highlight code{font-size:0.8em}footer{font-size:18px}small{font-size:12px}}p{font-size:22px;line-height:33px}.intro{font-size:32px;line-height:1.4em}.post ul li{font-size:22px;line-height:33px;margin-bottom:11px}h1,.h1{font-size:64px}h2,.h2{font-size:48px}h3,.h3{font-size:32px}h4,.h4{font-size:24px}h5,.h5{font-size:18px}h6,.h6{font-size:12px}.meta{font-size:12px}blockquote.pullquote,blockquote.pullquote p{font-size:48px}.archive input{font-size:48px}@media only screen and (max-width: 480px){p{font-size:18px;line-height:24px}.intro{font-size:24px;line-height:1.4em}.post ol li,.post ul li{font-size:18px;line-height:24px;margin-bottom:12px;margin-left:33px}h1,.h1{font-size:48px}h2,.h2{font-size:32px}h3,.h3{font-size:24px}h4,.h4{font-size:18px}h5,.h5{font-size:12px}h6,.h6{font-size:12px}.meta{font-size:12px}blockquote.pullquote,blockquote.pullquote p{font-size:24px}.archive input{font-size:32px}}.highlight{background:#202020;color:#d0d0d0}.highlight code{color:inherit}.highlight .hll{background-color:#404040}.highlight .c{color:#999999;font-style:italic}.highlight .err{color:#a61717;background-color:#e3d2d2}.highlight .g{color:#d0d0d0}.highlight .k{color:#6ab825;font-weight:bold}.highlight .l{color:#d0d0d0}.highlight .n{color:#d0d0d0}.highlight .o{color:#d0d0d0}.highlight .x{color:#d0d0d0}.highlight .p{color:#d0d0d0}.highlight .cm{color:#999999;font-style:italic}.highlight .cp{color:#cd2828;font-weight:bold}.highlight .c1{color:#999999;font-style:italic}.highlight .cs{color:#e50808;font-weight:bold;background-color:#520000}.highlight .gd{color:#d22323}.highlight .ge{color:#d0d0d0;font-style:italic}.highlight .gr{color:#d22323}.highlight .gh{color:#ffffff;font-weight:bold}.highlight .gi{color:#589819}.highlight .go{color:#ccc}.highlight .gp{color:#aaa}.highlight .gs{color:#d0d0d0;font-weight:bold}.highlight .gu{color:#ffffff;text-decoration:underline}.highlight .gt{color:#d22323}.highlight .kc{color:#6ab825;font-weight:bold}.highlight .kd{color:#6ab825;font-weight:bold}.highlight .kn{color:#6ab825;font-weight:bold}.highlight .kp{color:#6ab825}.highlight .kr{color:#6ab825;font-weight:bold}.highlight .kt{color:#6ab825;font-weight:bold}.highlight .ld{color:#d0d0d0}.highlight .m{color:#3677a9}.highlight .s{color:#ed9d13}.highlight .na{color:#bbb}.highlight .nb{color:#24909d}.highlight .nc{color:#447fcf;text-decoration:underline}.highlight .no{color:#40ffff}.highlight .nd{color:orange}.highlight .ni{color:#d0d0d0}.highlight .ne{color:#bbb}.highlight .nf{color:#447fcf}.highlight .nl{color:#d0d0d0}.highlight .nn{color:#447fcf;text-decoration:underline}.highlight .nx{color:#d0d0d0}.highlight .py{color:#d0d0d0}.highlight .nt{color:#6ab825;font-weight:bold}.highlight .nv{color:#40ffff}.highlight .ow{color:#6ab825;font-weight:bold}.highlight .w{color:#666}.highlight .mf{color:#3677a9}.highlight .mh{color:#3677a9}.highlight .mi{color:#3677a9}.highlight .mo{color:#3677a9}.highlight .sb{color:#ed9d13}.highlight .sc{color:#ed9d13}.highlight .sd{color:#ed9d13}.highlight .s2{color:#ed9d13}.highlight .se{color:#ed9d13}.highlight .sh{color:#ed9d13}.highlight .si{color:#ed9d13}.highlight .sx{color:orange}.highlight .sr{color:#ed9d13}.highlight .s1{color:#ed9d13}.highlight .ss{color:#ed9d13}.highlight .bp{color:#24909d}.highlight .vc{color:#40ffff}.highlight .vg{color:#40ffff}.highlight .vi{color:#40ffff}.highlight .il{color:#3677a9}.highlight .hll{background-color:#49483e}.highlight{background:#272822;color:#f8f8f2}.highlight .c{color:#75715e}.highlight .err{color:#960050;background-color:#1e0010}.highlight .k{color:#66d9ef}.highlight .l{color:#ae81ff}.highlight .n{color:#f8f8f2}.highlight .o{color:#f92672}.highlight .p{color:#f8f8f2}.highlight .cm{color:#75715e}.highlight .cp{color:#75715e}.highlight .c1{color:#75715e}.highlight .cs{color:#75715e}.highlight .ge{font-style:italic}.highlight .gs{font-weight:bold}.highlight .kc{color:#66d9ef}.highlight .kd{color:#66d9ef}.highlight .kn{color:#f92672}.highlight .kp{color:#66d9ef}.highlight .kr{color:#66d9ef}.highlight .kt{color:#66d9ef}.highlight .ld{color:#e6db74}.highlight .m{color:#ae81ff}.highlight .s{color:#e6db74}.highlight .na{color:#a6e22e}.highlight .nb{color:#f8f8f2}.highlight .nc{color:#a6e22e}.highlight .no{color:#66d9ef}.highlight .nd{color:#a6e22e}.highlight .ni{color:#f8f8f2}.highlight .ne{color:#a6e22e}.highlight .nf{color:#a6e22e}.highlight .nl{color:#f8f8f2}.highlight .nn{color:#f8f8f2}.highlight .nx{color:#a6e22e}.highlight .py{color:#f8f8f2}.highlight .nt{color:#f92672}.highlight .nv{color:#f8f8f2}.highlight .ow{color:#f92672}.highlight .w{color:#f8f8f2}.highlight .mf{color:#ae81ff}.highlight .mh{color:#ae81ff}.highlight .mi{color:#ae81ff}.highlight .mo{color:#ae81ff}.highlight .sb{color:#e6db74}.highlight .sc{color:#e6db74}.highlight .sd{color:#e6db74}.highlight .s2{color:#e6db74}.highlight .se{color:#ae81ff}.highlight .sh{color:#e6db74}.highlight .si{color:#e6db74}.highlight .sx{color:#e6db74}.highlight .sr{color:#e6db74}.highlight .s1{color:#e6db74}.highlight .ss{color:#e6db74}.highlight .bp{color:#f8f8f2}.highlight .vc{color:#f8f8f2}.highlight .vg{color:#f8f8f2}.highlight .vi{color:#f8f8f2}.highlight .il{color:#ae81ff}

diff --git a/assets/css/_styles.scss b/assets/css/_styles.scss
@@ -191,7 +191,7 @@ header.site-header {
   position: absolute;
   width: 100%;
   z-index: 5000;
-  @include background-gradient(rgba(0,0,0,.7), rgba(0,0,0,0));
+  @include background-gradient(rgba(0,0,0,.5), rgba(0,0,0,0));
 
   &.no-cover {
     background: none;
@@ -876,7 +876,7 @@ footer {
 @media only screen and (max-width : 680px) {
 
   header.site-header nav {
-    @include background-gradient(rgba(0,0,0,0), rgba(0,0,0,.8));
+    @include background-gradient(rgba(0,0,0,0), rgba(0,0,0,.5));
   }
 
   #bump .no-cover nav ul {

diff --git a/portfolio.md b/portfolio.md
@@ -124,7 +124,7 @@ the picture yourself:
 {% highlight matlab %}
 % Quad-Spiral Valley (scale: 1/400, iterations: 512)
 M = mandelbrot (0.283+0.484i, 400, 512, 1280, 800);
-imwrite (M, bone (512), 'output.jpg', 'Quality', 100);
+imwrite (M, copper (512), 'output.jpg', 'Quality', 100);
 {% endhighlight %}
 
 ### photo-mosaic
